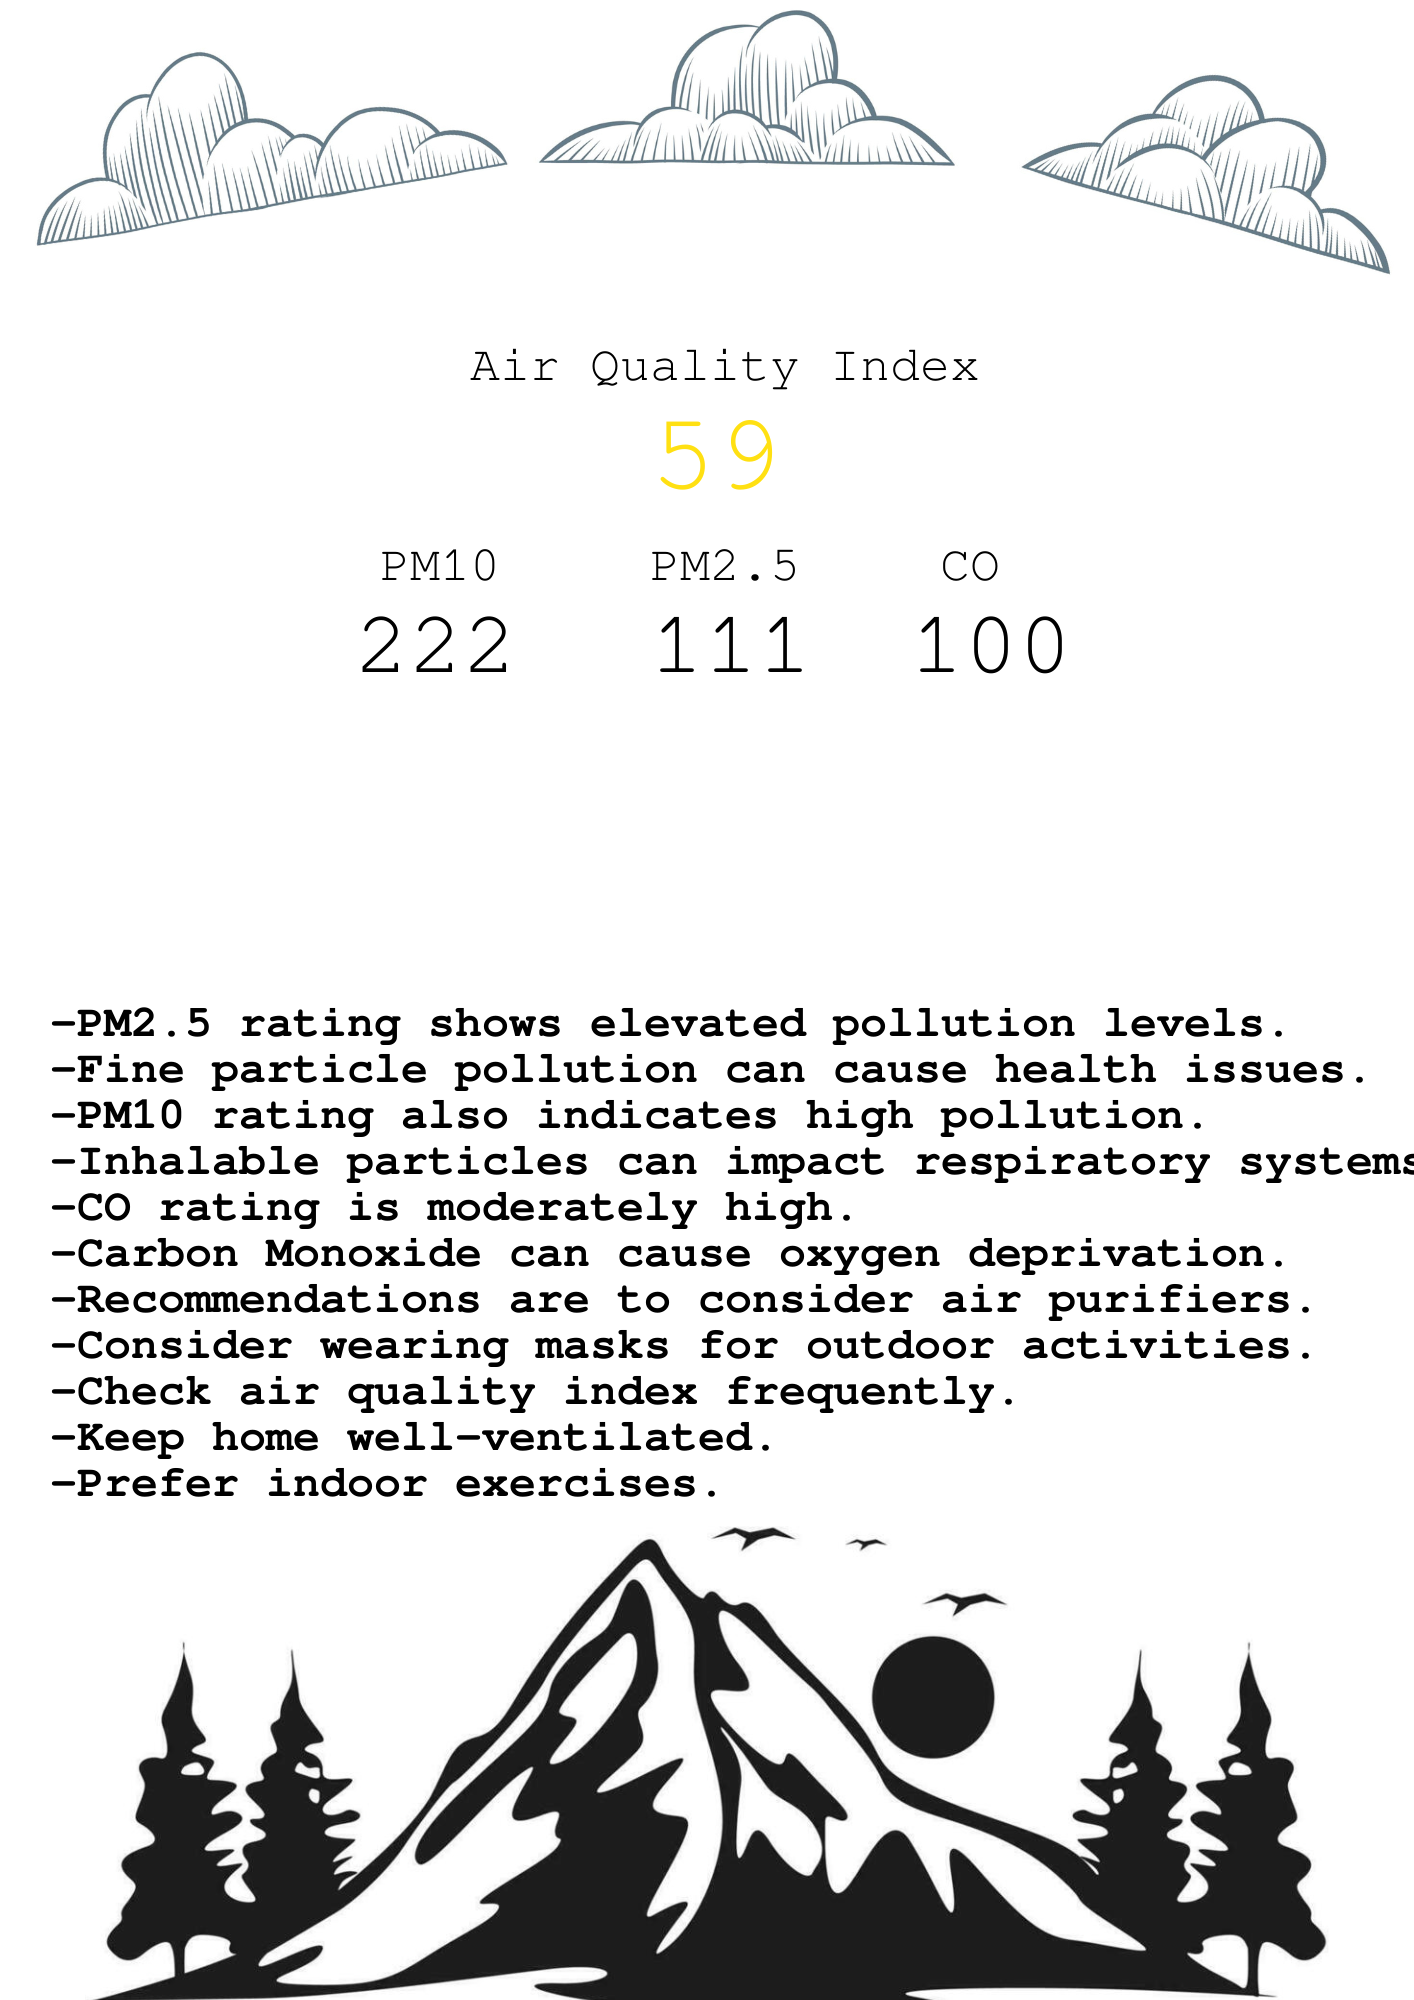
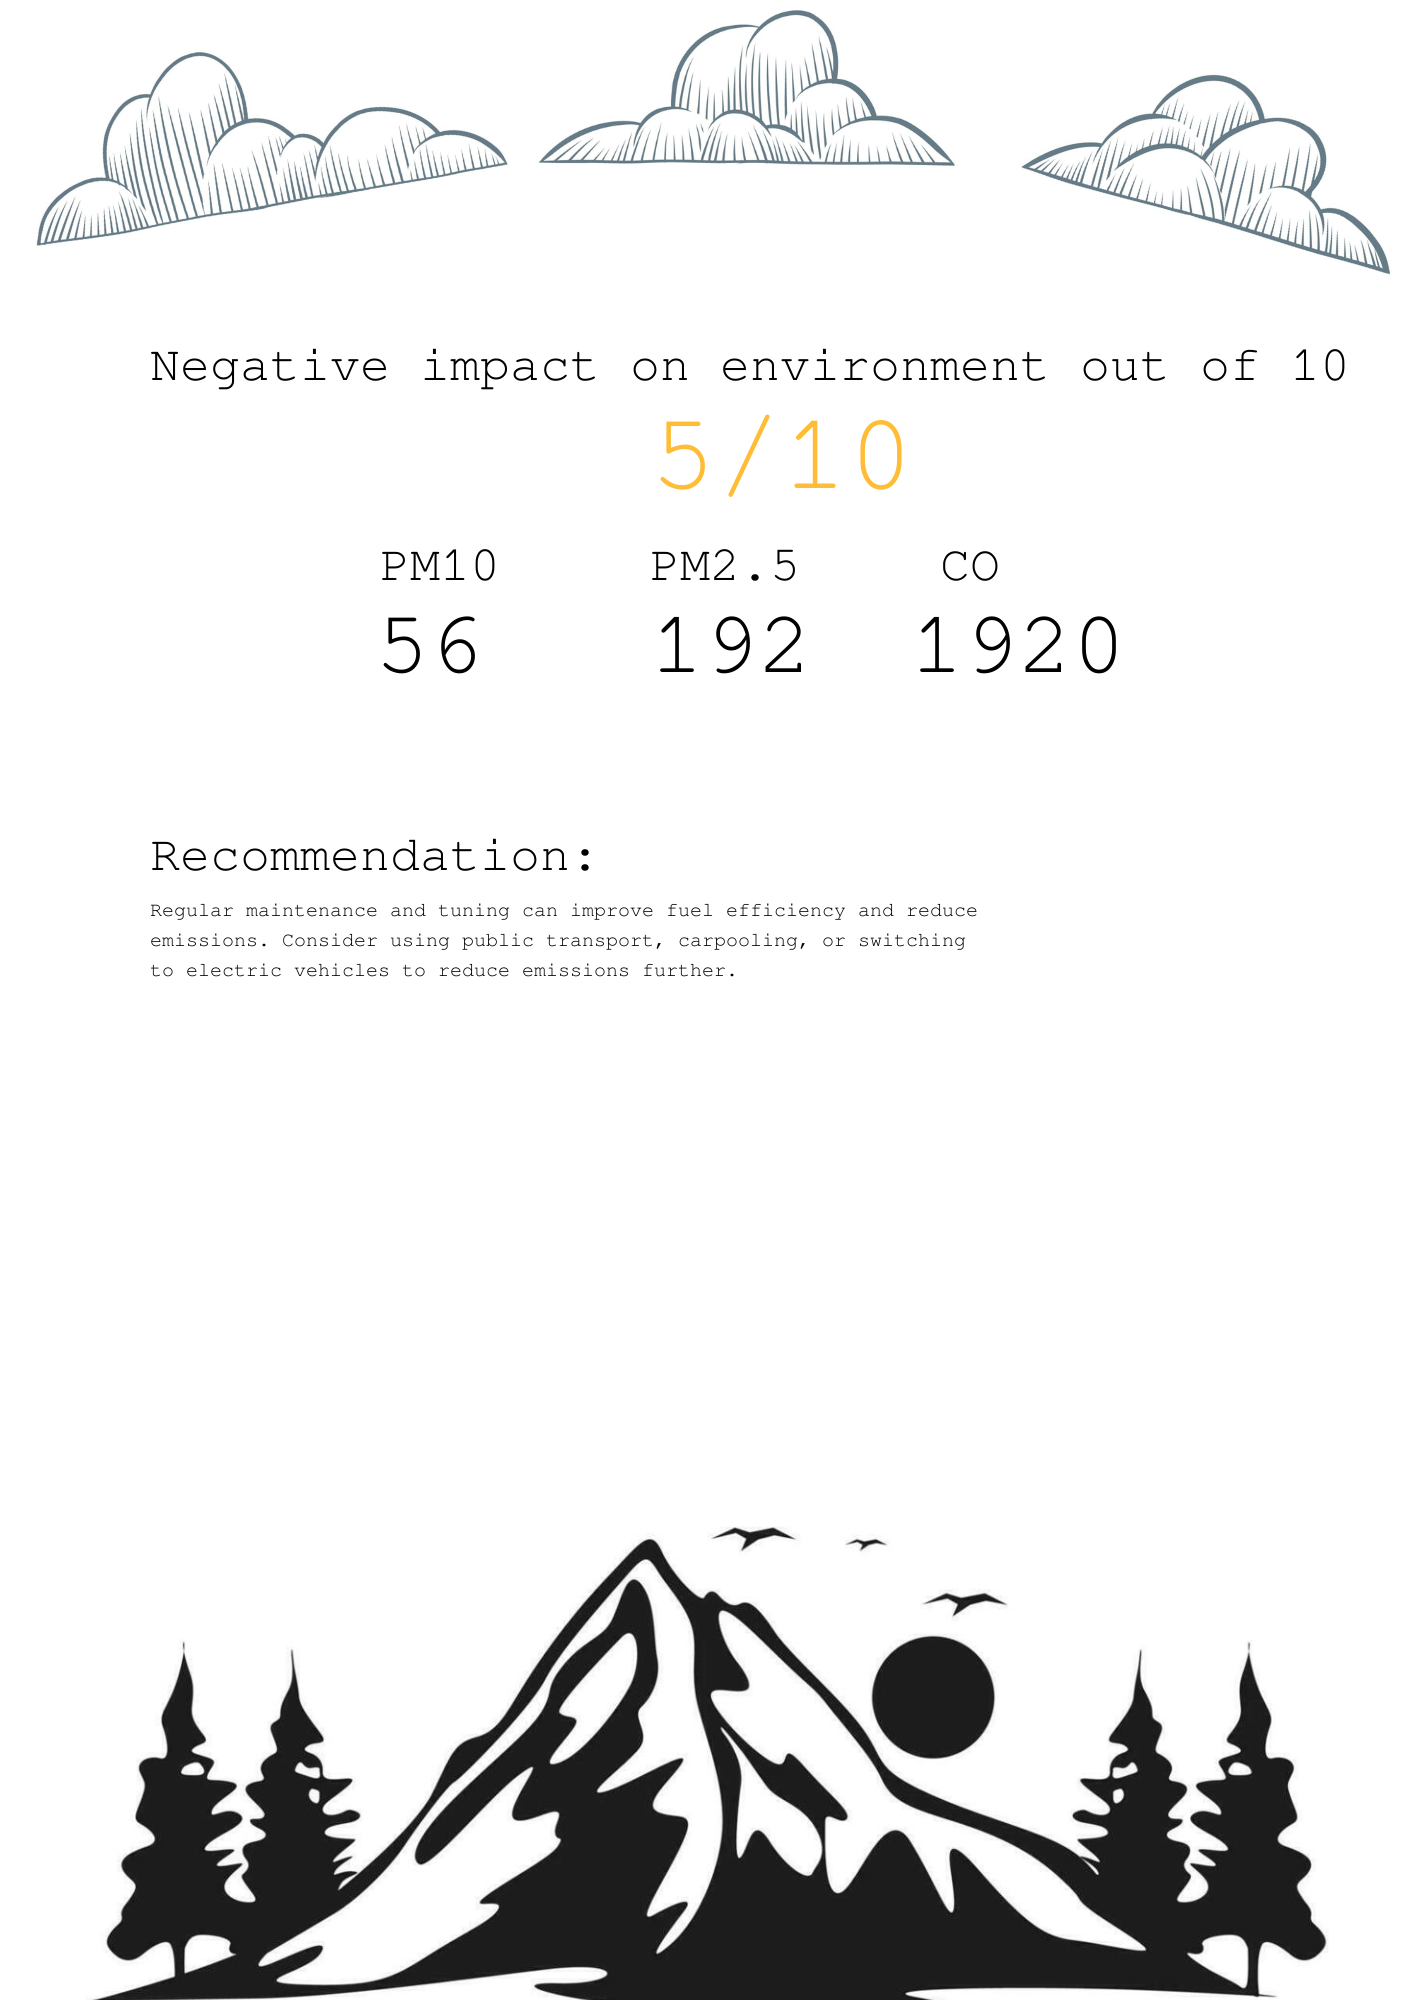
init

diff --git a/back_kolesa.py b/back_kolesa.py
@@ -4,6 +4,8 @@ import requests
 from translate import Translator
 import os
 from openai import OpenAI
+import json
+from plotter import *
 
 # apikey ChatGPT sk-proj-wfFWlYv6WmIRmwCRiGhPT3BlbkFJQ59sSlLRjpHSSYlwykOP,   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
 # apikey GeminiAI AIzaSyAoDDOARP81gR1X8AGA82YKE8sXlzuVTJk
@@ -14,49 +16,102 @@ kolesa_data = ""
 def gpt_caller(data):
     # Supply the car name and ask for emissions and other stuff
 
-    api_key = 'sk-proj-wfFWlYv6WmIRmwCRiGhPT3BlbkFJQ59sSlLRjpHSSYlwykOP'
-    endpoint = 'https://api.openai.com/v1/chat/completions'
+    # api_key = 'sk-proj-wfFWlYv6WmIRmwCRiGhPT3BlbkFJQ59sSlLRjpHSSYlwykOP'
+    # endpoint = 'https://api.openai.com/v1/chat/completions'
 
-    prompt = ("Hey! I need you help with getting all the information related to emissions rating of the following car"
-              "and its eco-friendliness")
+    # prompt = ("Hey! I need you help with getting all the information related to emissions rating of the following car"
+    #           "and its eco-friendliness")
 
-    additional_data = {
-        "car_title": data["car_title"],
-        "generation": data["generation"],
-        "engine_displacement": data["engine_displacement"],
-        "distance run (km)": data["distance run (km)"],
-        "N-wheel drive": data["N-wheel drive"],
+    # additional_data = {
+    #     "car_title": data["car_title"],
+    #     "generation": data["generation"],
+    #     "engine_displacement": data["engine_displacement"],
+    #     "distance run (km)": data["distance run (km)"],
+    #     "N-wheel drive": data["N-wheel drive"],
+    # }
+
+
+    # response = client.chat.completions.create(
+    #     model="gpt-4",
+    #     messages=[
+    #         {
+    #             "role": "system",
+    #             "content": "Hey! I am going to provide a data on a car and I want you to rate how safe for ecology it is on a scale 0-10 and find the CO2 emissions number."
+    #                         "If it is not possible to find the exact number, please provide an approximate value. Also, please provide the PM2.5 and PM10 emissions in the same format."
+    #                        " Do not return anything else in the response, only provide the answer in the following format without any explanation text of fields. Only this struct: "
+    #                        """{
+    #                             "impact": "5/10",
+    #                             "co": 1920, 
+    #                             "pm25": 192, 
+    #                             "pm10": 56, 
+    #                             "recommendation": "Regular maintenance and tuning can improve fuel efficiency and reduce emissions. Consider using public transport, carpooling, or switching to electric vehicles to reduce emissions further.", 
+    #                             "trees_killed": 11
+    #                         }"""
+    #         },
+    #         {
+    #             "role": "user",
+    #             "content": f"Car brand and model: {additional_data['car_title']}, Model generation: {additional_data['generation']}."
+    #                     f"Engine displacement: {additional_data['engine_displacement']}, N-wheel drive: {additional_data['N-wheel drive']}"
+    #                        f"Mileage (km): {additional_data['distance run (km)']}"
+
+
+    #         }
+    #     ],
+    #     max_tokens=300
+    # )
+
+
+    # raw_report = response.choices[0].message.content
+
+    # encoded_report = json.loads(raw_report)
+
+    encoded_report = {
+        "impact": "5/10",
+        "co": 1920,
+        "pm25": 192,
+        "pm10": 56,
+        "recommendation": "Regular maintenance and tuning can improve fuel efficiency and reduce emissions. Consider using public transport, carpooling, or switching to electric vehicles to reduce emissions further.",
+        "trees_killed": 11
     }
 
+    color = color_calculator(encoded_report)
 
-    response = client.chat.completions.create(
-        model="gpt-4",
-        messages=[
-            {
-                "role": "system",
-                "content": "Hey! I am going to provide a data on a car and I want you to rate how safe for ecology it is on a scale 0-10 and find the CO2 emissions number."
-                           " Then, explain what do these numbers and ratings mean. "
-                           "Provide the asnwer in the following format: "
-                           "- The N car is 5/10 in terms of it impact on ecology/air "
-                           "- The N car has a X CO2 emissions number"
-                           "- This information shows that this car is ..."
-            },
-            {
-                "role": "user",
-                "content": f"Car brand and model: {additional_data['car_title']}, Model generation: {additional_data['generation']}."
-                        f"Engine displacement: {additional_data['engine_displacement']}, N-wheel drive: {additional_data['N-wheel drive']}"
-                           f"Mileage (km): {additional_data['distance run (km)']}"
-
-
-            }
-        ],
-        max_tokens=300
+    return generate_report_for_car_emission(
+        encoded_report["impact"], 
+        int(encoded_report["co"]),
+        int(encoded_report["pm25"]), 
+        int(encoded_report["pm10"]), 
+        encoded_report["recommendation"],
+        encoded_report["trees_killed"],
+        color,
     )
 
+def color_calculator(metrics_data):
+    aq_index = 0
+    pm25_weight = 0.5
+    pm10_weight = 0.3
+    co_weight = 0.2
 
-    report = response.choices[0].message.content
+    for key in metrics_data:
+        if key == "pm25":
+            aq_index = pm25_weight*float(metrics_data[key]) + aq_index
+        if key == "pm10":
+            aq_index = pm10_weight*float(metrics_data[key]) + aq_index
+        if key == "co":
+            aq_index = co_weight*float(metrics_data[key]) + aq_index
+    color = ""
+    if aq_index >= 100: # Orange
+        color = [255, 119, 0]
+    if aq_index >= 85:   #dark yellow
+        color = [255, 189, 55]
+    if aq_index >= 45 and aq_index < 85:  # yellow
+        color = [255, 224, 18]
+    if aq_index < 30:   # dark green
+        color = [67, 166, 0]
+    if aq_index >= 30 and aq_index < 45: #brighter green
+        color = [161, 219, 0]
 
-    return report
+    return color
 
 
 ##########################################################################################

diff --git a/plotter.py b/plotter.py
@@ -58,3 +58,82 @@ def generate_report_for_krisha(aqIndex, aqIndexColor, pm25, pm10, co, text):
     return "./report/plot.png"
         
 
+
+def generate_report_for_car_emission(
+        impact, 
+        co2, 
+        pm25, 
+        pm10, 
+        recommendation, 
+        trees_killed,
+        impactColor,
+):
+    try:
+        template = Image.open(IMAGE_PATH)
+        drawCertificate = ImageDraw.Draw(template)    
+    except Exception:
+        pass
+
+    timestamp = datetime.now()
+
+    metricFont = ImageFont.truetype('./font/FreeMono.ttf', 90)
+    aqFont = ImageFont.truetype('./font/FreeMono.ttf', 110)
+    labelFont = ImageFont.truetype('./font/FreeMono.ttf', 50)
+    textFont = ImageFont.truetype('./font/FreeMono.ttf', 20)
+
+
+    R = impactColor[0]
+    G = impactColor[1]
+    B = impactColor[2]
+
+    drawCertificate.text((150, 340), "Negative impact on environment out of 10", font=labelFont, fill=(0, 0, 0))
+    drawCertificate.text((650, 400), str(impact), font=aqFont, fill=(R, G, B))
+    
+     # PM2.5
+    if pm25 > 99:
+        drawCertificate.text((650, 540), "PM2.5", font=labelFont, fill=(0, 0, 0))
+        drawCertificate.text((650, 600), str(pm25), font=metricFont, fill=(0, 0, 0))
+    else:
+        drawCertificate.text((650, 540), "PM2.5", font=labelFont, fill=(0, 0, 0))
+        drawCertificate.text((660, 600), str(pm25), font=metricFont, fill=(0, 0, 0))
+    
+    # PM10
+    if pm10 > 99:
+        drawCertificate.text((380, 540), "PM10", font=labelFont, fill=(0, 0, 0))
+        drawCertificate.text((355, 600), str(pm10), font=metricFont, fill=(0, 0, 0))
+    else:
+        drawCertificate.text((380, 540), "PM10", font=labelFont, fill=(0, 0, 0))
+        drawCertificate.text((375, 600), str(pm10), font=metricFont, fill=(0, 0, 0))
+    
+    # CO
+    if co2 > 99:
+        drawCertificate.text((940, 540), "CO", font=labelFont, fill=(0, 0, 0))
+        drawCertificate.text((910, 600), str(co2), font=metricFont, fill=(0, 0, 0))
+    else:
+        drawCertificate.text((940, 540), "CO", font=labelFont, fill=(0, 0, 0))
+        drawCertificate.text((920, 600), str(co2), font=metricFont, fill=(0, 0, 0))
+
+    
+    # Recommendation text
+    drawCertificate.text((150, 830), "Recommendation:", font=labelFont, fill=(0, 0, 0))
+    splitted_text = split_text(recommendation)
+    for i, text in enumerate(splitted_text):
+        drawCertificate.text((150, 900 + i*30), text, font=textFont, fill=(0, 0, 0), spacing=0)
+
+    template.save("./report/plot.png")
+    return "./report/plot.png"
+
+
+
+def split_text(text, word_per_line=70):
+    splitted_text = []
+    words = text.split()
+    line = ""
+    for word in words:
+        if len(line) + len(word) < word_per_line:
+            line += word + " "
+        else:
+            splitted_text.append(line)
+            line = word + " "
+    splitted_text.append(line)
+    return splitted_text

diff --git a/pages/4_🔧_🛞_Car_Manual_Emissions_Report.py b/pages/4_🔧_🛞_Car_Manual_Emissions_Report.py
@@ -25,9 +25,19 @@ car_data["N-wheel drive"] = st.text_input('Enter the wheel drive configuration')
 report = gpt_caller(car_data)
 
 if st.button('Generate Report'):
-    report = gpt_caller(car_data)
+    raw_report = gpt_caller(car_data)
+    # {
+    #     "impact": "5/10",
+    #     "co2": 1920, 
+    #     "pm2_5": 192, 
+    #     "pm10": 56, 
+    #     "recommendation": "Regular maintenance and tuning can improve fuel efficiency and reduce emissions. Consider using public transport, carpooling, or switching to electric vehicles to reduce emissions further.", 
+    #     "trees_killed": 11
+    # }
+
+    # generate_report_for_car_emission
 
     if report:
+        st.image(gpt_caller(car_data), caption='Report', use_column_width=True)
         # Display HTML content with taller st.text
-        st.text_area(label="Report", value=report, height=500, max_chars=None, key=None)
 
